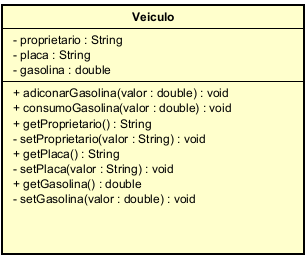
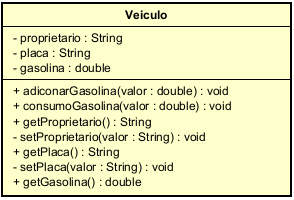
Ajustes finais SistemaVeiculo

Changed region(s): [[0.0, 0.0, 1.0, 0.99]]

diff --git a/FiapRide/src/br/com/fiapride/model/Veiculo.java b/FiapRide/src/br/com/fiapride/model/Veiculo.java
@@ -8,7 +8,7 @@ public class Veiculo {
     public Veiculo(String proprietario, String placa) {
         this.setProprietario(proprietario);
 		this.setPlaca(placa);
-		this.setGasolina(0);
+		this.gasolina = 0;
     }
 
 	public String getProprietario() {
@@ -36,15 +36,10 @@ public class Veiculo {
             System.out.println("Erro: O espaço 'Placa' deve conter ao menos 1 caracter válido.");
         }
 	}
-
-	public double getGasolina() {
-		return this.gasolina;
-	}
-
-	public void setGasolina(double valor) {
-        this.gasolina = valor;
-	}
-
+    
+    public double getGasolina() {
+        return gasolina;
+    }
 
     public void adicionarGasolina(double valor) {
         if (valor <= 0) {
@@ -69,7 +64,7 @@ public class Veiculo {
         }
 
         this.gasolina -= gasto;
-        System.out.println("Resolveu dar uma voltinha? Até o momento, você gastou " + this.gasolina + "litros de gasolina.");
+        System.out.println("Resolveu dar uma voltinha? Até o momento, você consumiu " + this.gasolina + "litros de gasolina.");
     }
 
    

diff --git a/FiapRide/src/br/com/fiapride/main/SistemaVeiculo.java b/FiapRide/src/br/com/fiapride/main/SistemaVeiculo.java
@@ -13,6 +13,6 @@ public class SistemaVeiculo {
         veiculo1.consumirGasolina(100);
 
         System.out.println("\n>>>> Status do veículo:");
-        System.out.println("Proprietário: " + veiculo1.getProprietario() + " | Placa: " + veiculo1.getPlaca() + " | Gasolina: " + veiculo1.getGasolina() + "l");
+        System.out.println("Proprietário: " + veiculo1.getProprietario() + " | Placa: " + veiculo1.getPlaca() + " | Gasolina: " + veiculo1.getGasolina() + " litros");
     }
 }
